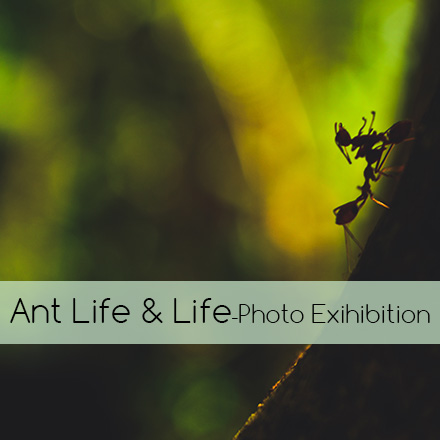
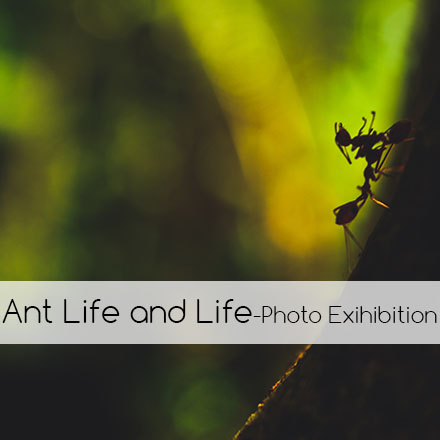
Add files via upload

Changed region(s): [[0.0, 0.6205, 1.0, 0.7977]]

diff --git a/css/queries.css b/css/queries.css
@@ -397,14 +397,16 @@ figure.snip1321.hover:after {
     font-family: 'Dosis', sans-serif;
 
 	font-size: 40px;
-	color: #d55050;
+	color: #fff;
+	opacity: 0.5;
 }
 .a29
 { 
 	position: relative;
 	left:45%;
 	top: -23px;
-	background-color: #d55050;
+	background-color: #fff;
+	opacity: 0.5;
 	width: 60px;
 	height: 2px;
 }
@@ -436,7 +438,7 @@ figure.snip1321.hover:after {
 		.a33
 		{
 			position: relative;
-			left: 35%;
+			left: 35%!important;
 
 		}
 		.a25
@@ -458,7 +460,7 @@ figure.snip1321.hover:after {
 
 		.a16
 		{
-			min-height: 860px;
+			min-height: 880px;
 		}
 
 		.a7
@@ -493,6 +495,21 @@ figure.snip1321.hover:after {
 	}
 
 	@media screen and (max-width:480px) {
+		.a26
+		{
+			width: 260px!important;
+			height: auto!important;
+			display: block!important;
+    	    margin:0 auto!important;
+
+		}
+		
+		.a33
+		{
+			position: relative;
+			left: 31%!important;
+
+		}
 		.hero .hero-content {
 			padding-top: 41%;
 		}

diff --git a/index.html b/index.html
@@ -126,7 +126,7 @@
 <br>
 <div class="a27">
   <h3 class="a28">Portfolio</h3>
-  <div class="a29 a33"></div>
+  <div class="a29 a33 a34"></div>
 </div>
 <div class="row">
 <div class="a21 col-lg-6">
